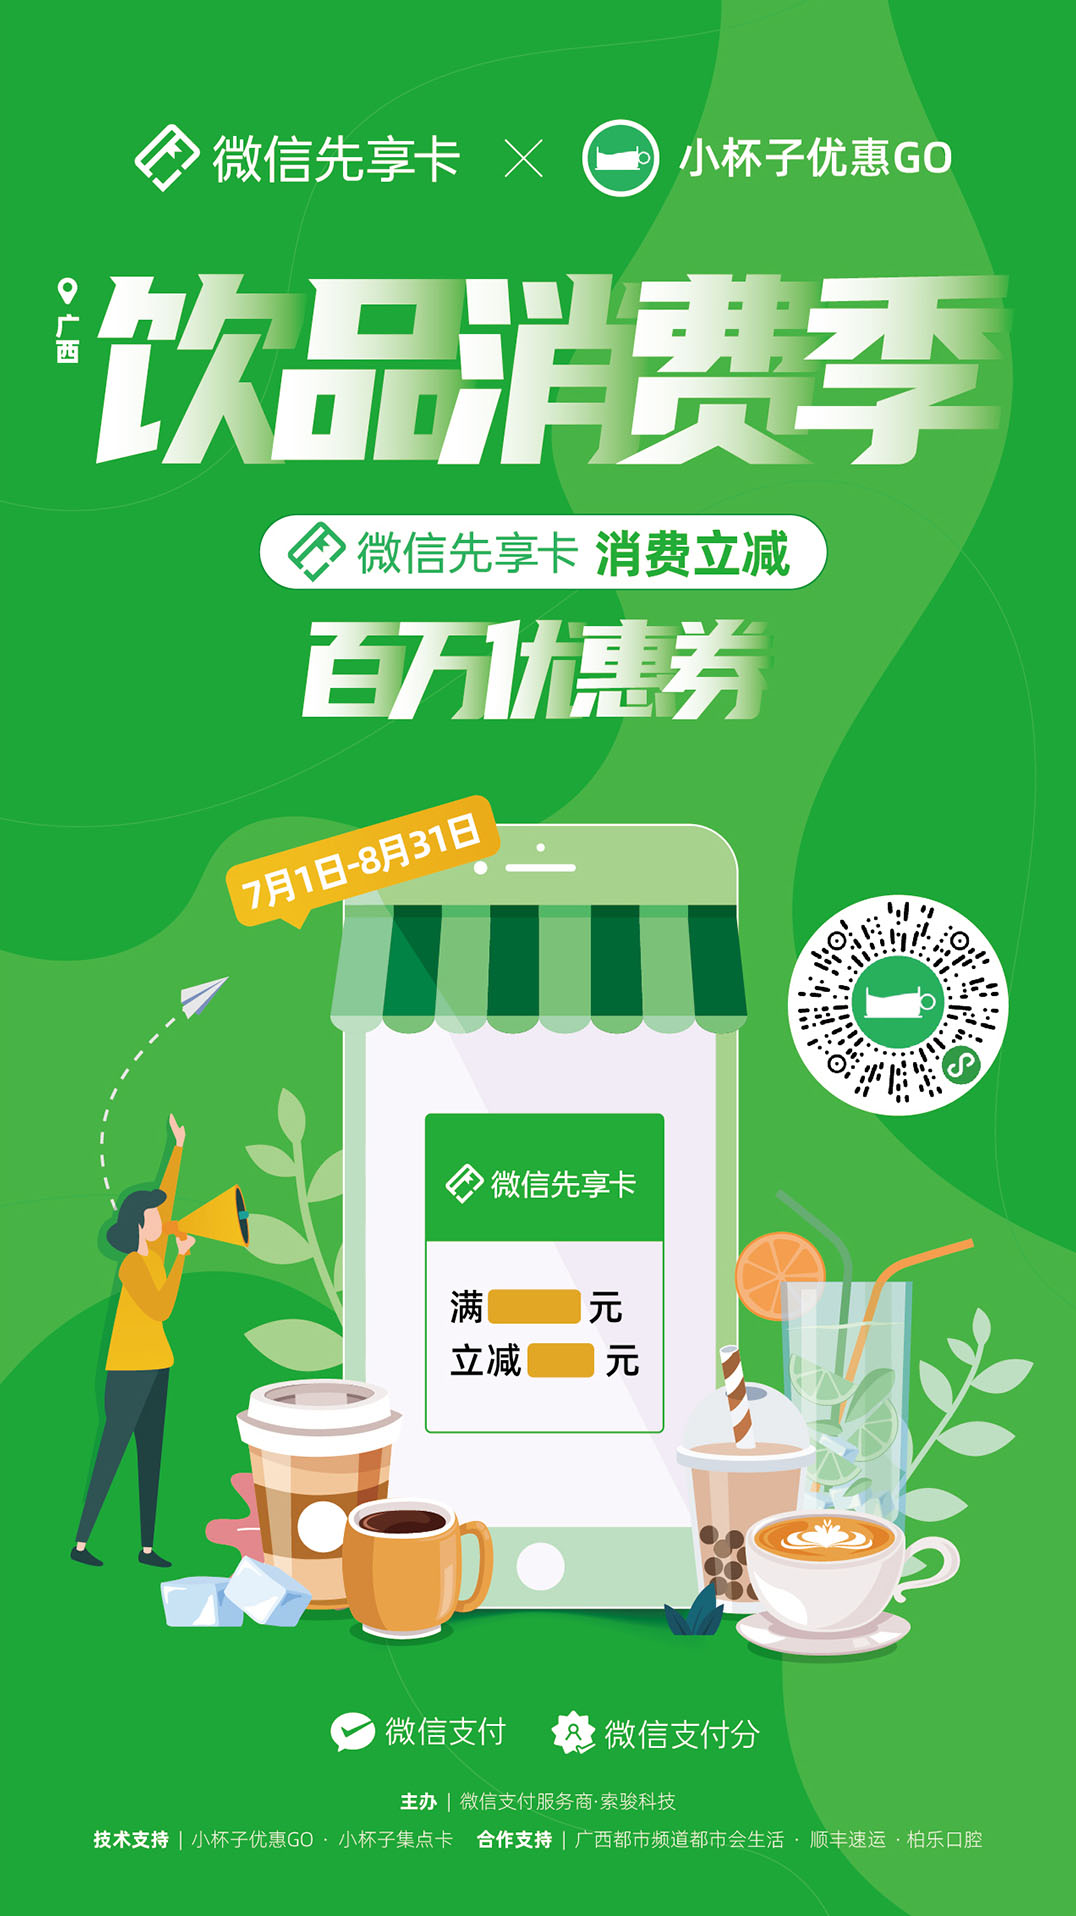
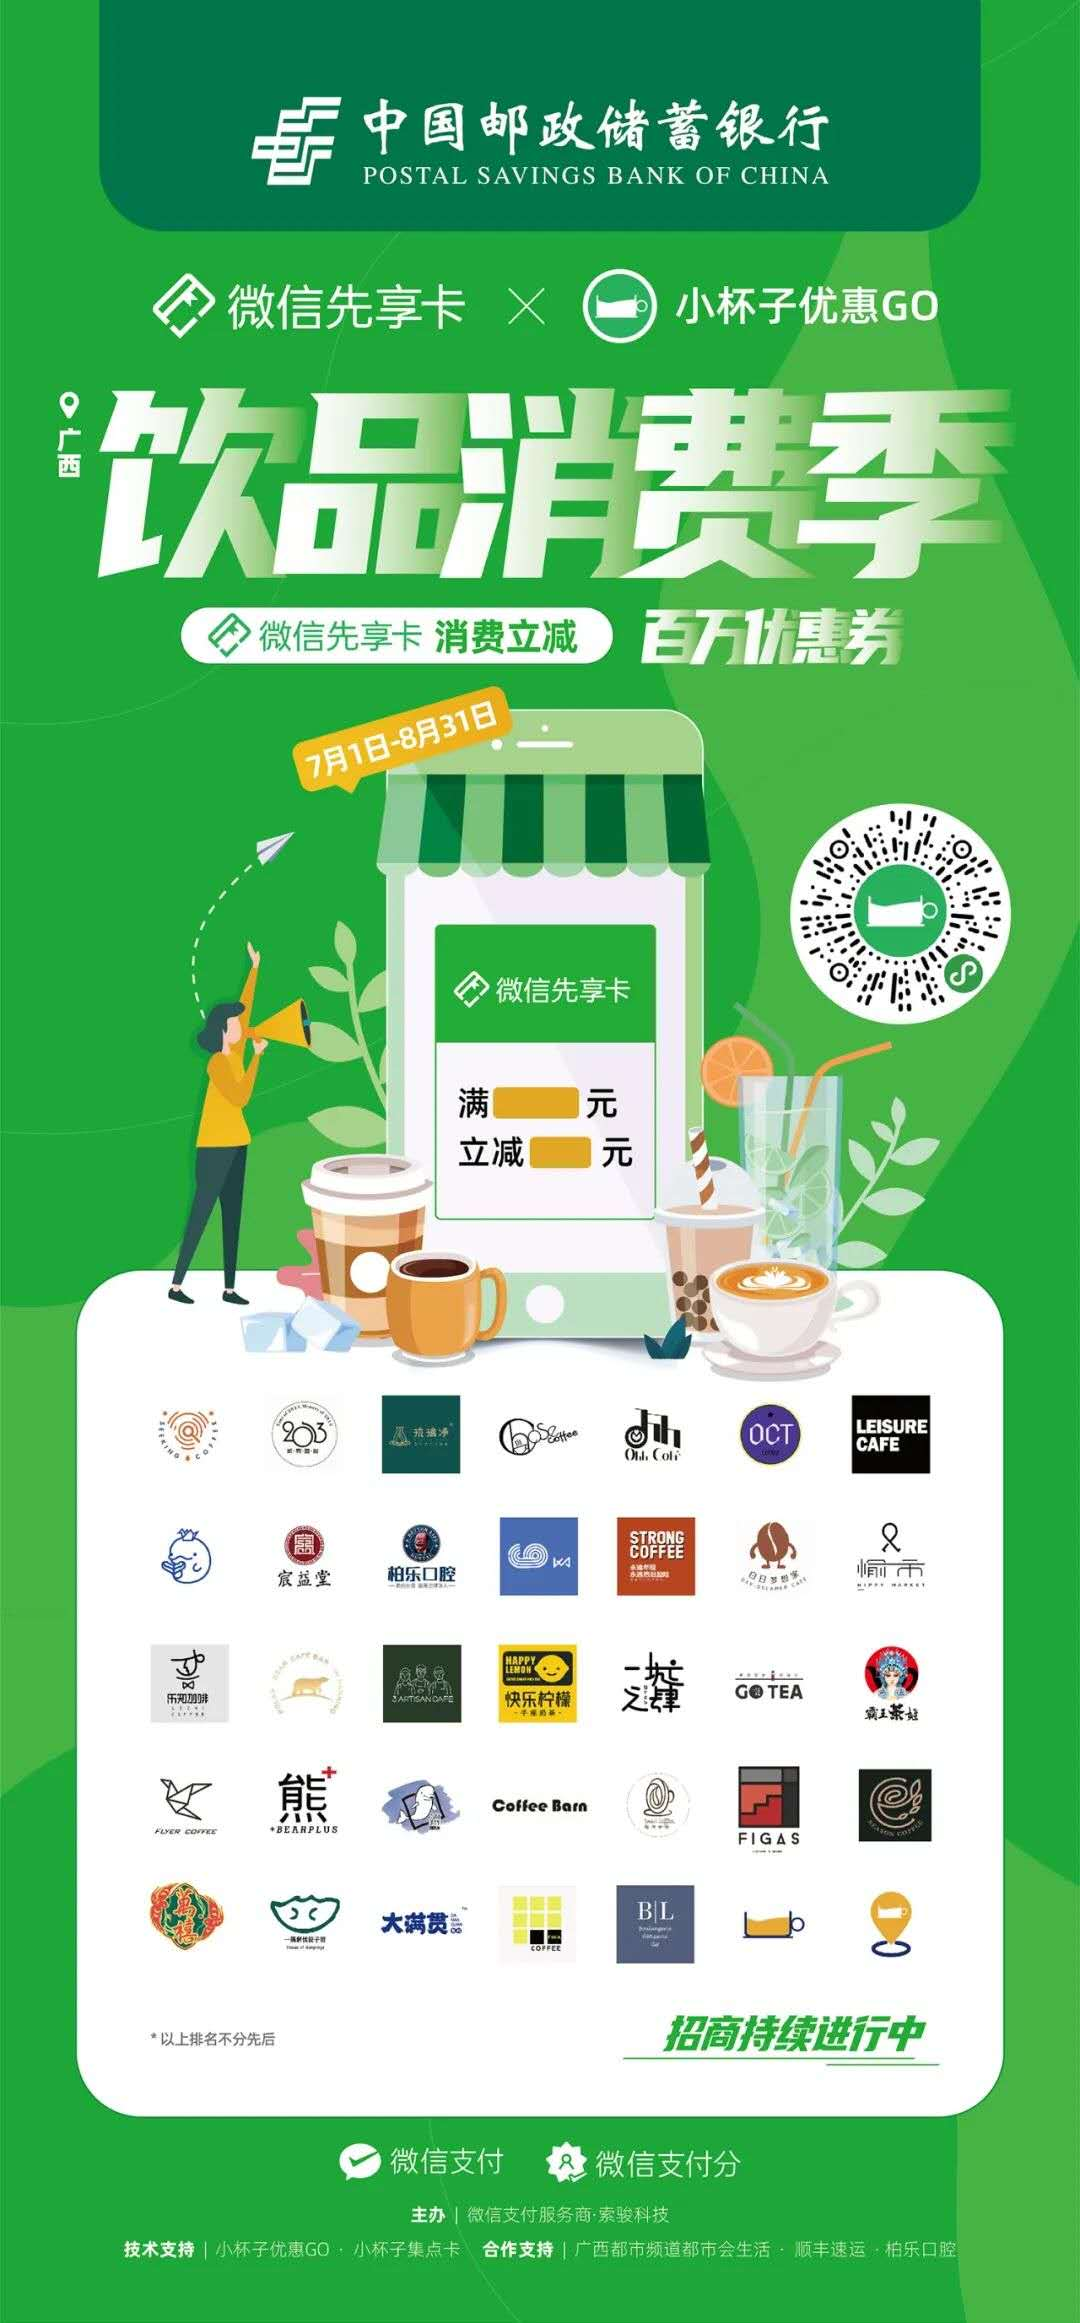
v1.4.5 邮储版本

diff --git a/pages/list/list.js b/pages/list/list.js
@@ -198,7 +198,8 @@ Page({
 
         var index = e.currentTarget.dataset.index
         if (index == 0) {
-            var url = "https://mp.weixin.qq.com/s/qZkIhxrkPUkVNjgzzGmaQA"
+            // var url = "https://mp.weixin.qq.com/s/qZkIhxrkPUkVNjgzzGmaQA"
+            var url ="https://mp.weixin.qq.com/s/MXy9NfnbWvcoEJO-iY8n2A"
             wx.navigateTo({ url: `/pages/article/article?url=${url}`, })
         }
         if (index == 1) {
